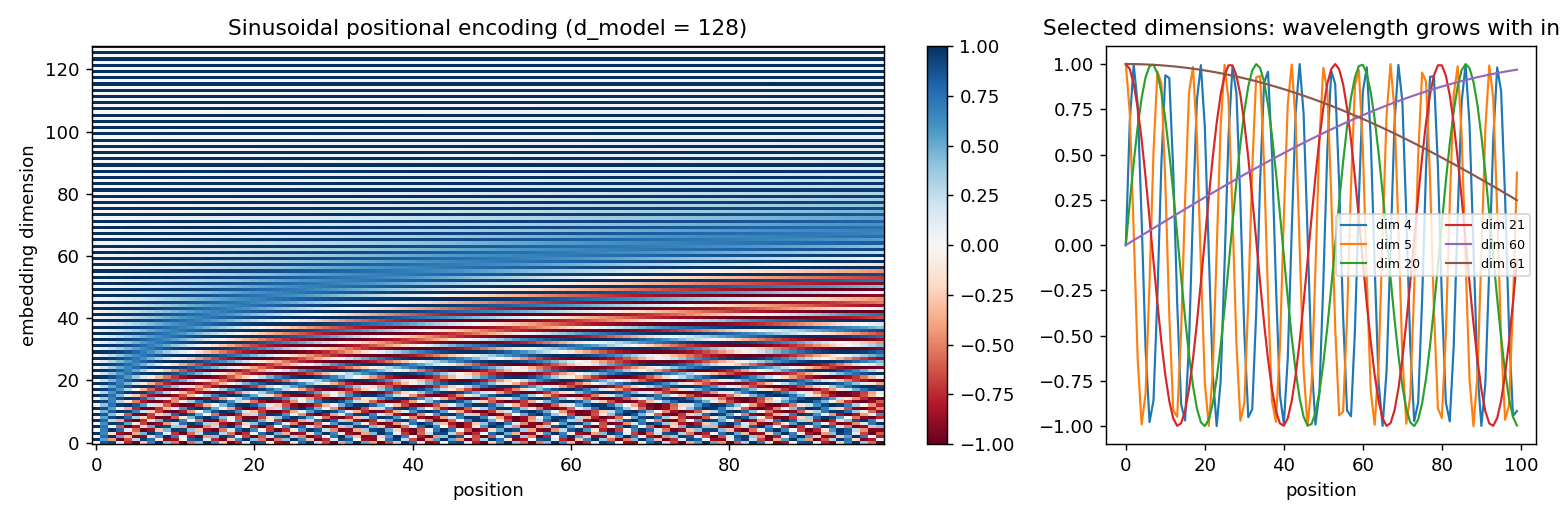
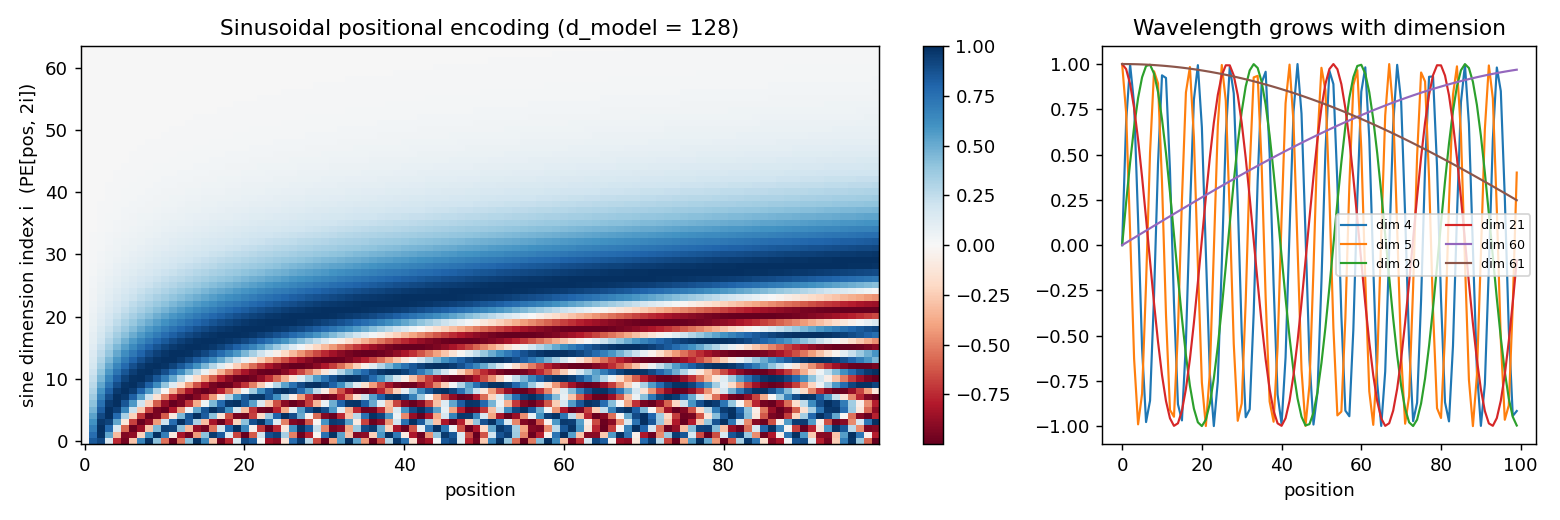
attention: record Multi30k training run (val BLEU 41.1, ppl 4.65)
20 epochs, 3 layers, d_model 256, 9.1M parameters, 72 minutes on a 4-core
laptop CPU. results.json holds the per-epoch history; training_curves.png
plots loss, validation perplexity and greedy BLEU. Positional-encoding
figure now shows only the sine dimensions to avoid row striping.

diff --git a/papers/attention-is-all-you-need/visualize.py b/papers/attention-is-all-you-need/visualize.py
@@ -28,15 +28,16 @@ os.makedirs(OUT, exist_ok=True)
 def plot_positional_encoding():
     pe = PositionalEncoding(128, dropout=0.0, max_len=100).pe[0]  # (100, 128)
     fig, axes = plt.subplots(1, 2, figsize=(12, 4), gridspec_kw={"width_ratios": [2, 1]})
-    im = axes[0].imshow(pe.T, aspect="auto", cmap="RdBu", origin="lower")
+    # Even dims are sin, odd are cos; plotting only the sin half avoids row striping.
+    im = axes[0].imshow(pe[:, 0::2].T, aspect="auto", cmap="RdBu", origin="lower")
     axes[0].set_xlabel("position")
-    axes[0].set_ylabel("embedding dimension")
+    axes[0].set_ylabel("sine dimension index i  (PE[pos, 2i])")
     axes[0].set_title("Sinusoidal positional encoding (d_model = 128)")
     fig.colorbar(im, ax=axes[0], fraction=0.03)
     for dim in [4, 5, 20, 21, 60, 61]:
         axes[1].plot(pe[:, dim], label=f"dim {dim}", lw=1.2)
     axes[1].set_xlabel("position")
-    axes[1].set_title("Selected dimensions: wavelength grows with index")
+    axes[1].set_title("Wavelength grows with dimension")
     axes[1].legend(fontsize=7, ncol=2)
     fig.tight_layout()
     fig.savefig(os.path.join(OUT, "positional_encoding.png"), dpi=130)
